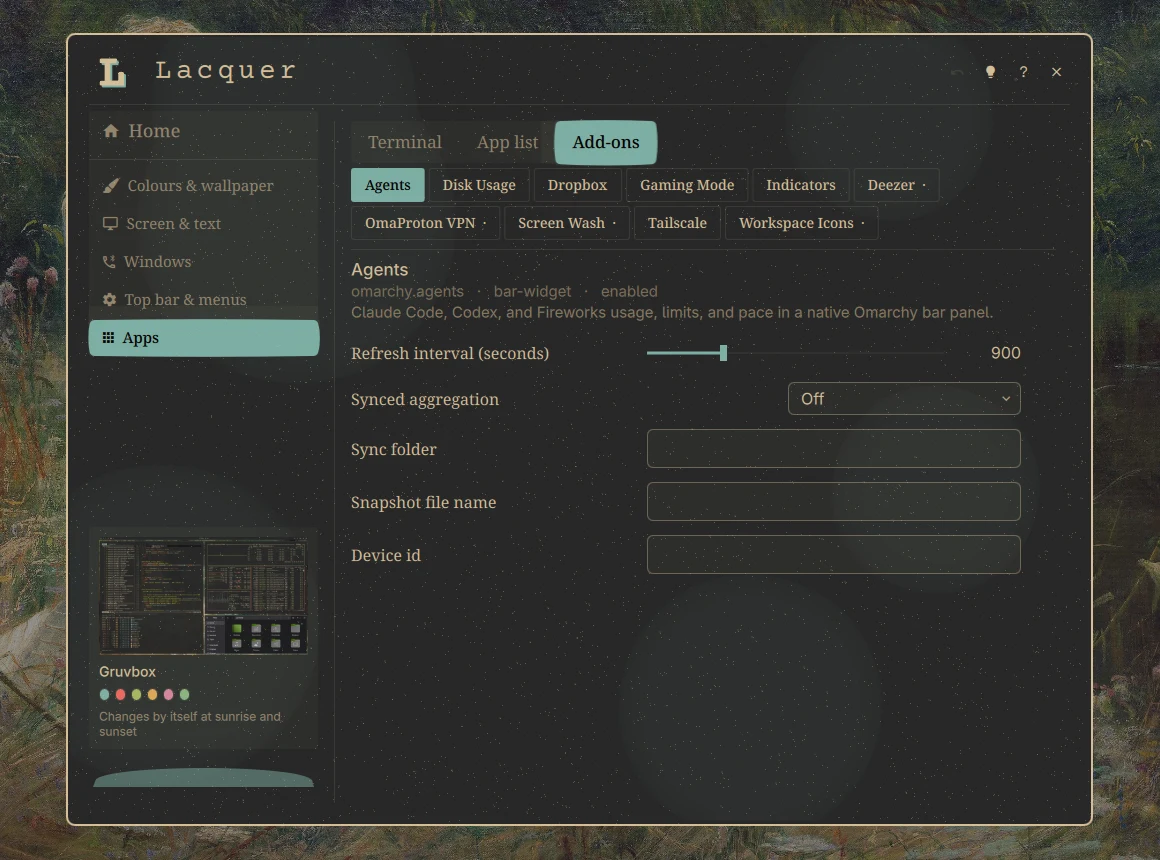
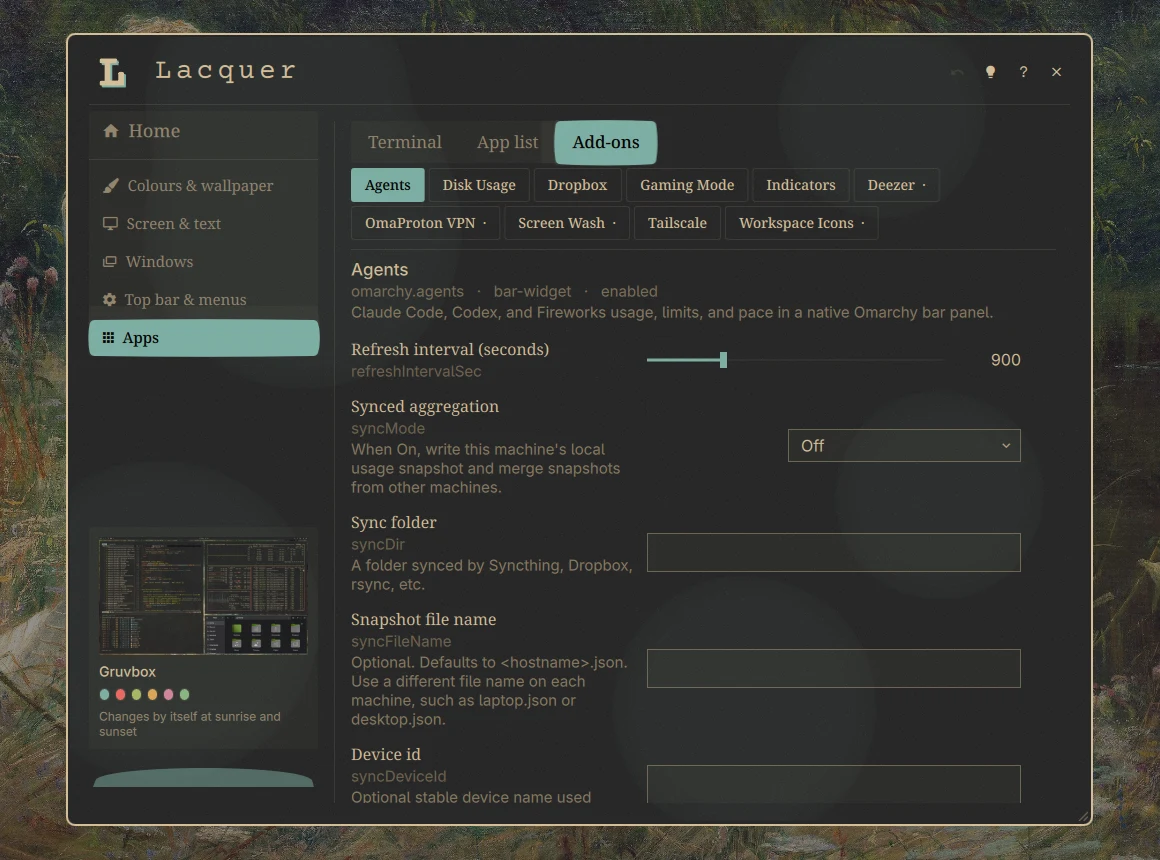
1.0.1: the front page says what changed, with new pictures
Fresh screenshots of every page, taken after the fixes, and a section
near the top that says plainly what 1.0 got wrong and what was done
about it — including the one thing that cannot be fixed from inside the
app, since Hyprland eats Super+W before any client sees it.

Claude-Session: https://claude.ai/code/session_012kioSKKt4kPGx5XamR47ye

diff --git a/README.md b/README.md
@@ -9,7 +9,7 @@
 </p>
 
 <p align="center">
-  <img alt="version 1.0" src="https://img.shields.io/badge/version-1.0-7daea3?style=flat-square&labelColor=282828">
+  <img alt="version 1.0.1" src="https://img.shields.io/badge/version-1.0.1-7daea3?style=flat-square&labelColor=282828">
   <img alt="MIT" src="https://img.shields.io/badge/licence-MIT-d4be98?style=flat-square&labelColor=282828">
   <img alt="Omarchy 4" src="https://img.shields.io/badge/Omarchy-4.0%2B-d4be98?style=flat-square&labelColor=282828">
   <img alt="no telemetry" src="https://img.shields.io/badge/no%20telemetry-665c54?style=flat-square&labelColor=282828">
@@ -88,6 +88,34 @@ online.
 <td><img src="docs/media/apprules.webp" alt="Per-app window rules: how one app opens"><br><sub><b>Per-app rules</b> — how one app opens</sub></td>
 </tr>
 </table>
+
+## 1.0.1, from what people said
+
+The 1.0 release hid each setting's description until you rested the pointer on
+it. That opened the row and pushed everything below it down, so scrolling with a
+mouse re-flowed the page under your own cursor. Three people reported it, one
+rolled back. **Descriptions are simply there again**, as they were in the beta:
+nothing opens, nothing moves.
+
+Along with it:
+
+- The **wheel no longer changes values** when you scroll past a slider. Plain
+  wheel scrolls the page; Ctrl+wheel still steps, on purpose.
+- The **window can be resized** by the grip in its bottom-right corner, and the
+  size is remembered. A layer-shell surface cannot be dragged by the
+  compositor, which is why it could not be resized before.
+- The **tab marker is an underline** again, rather than a brush stroke that
+  read, accurately, as half-drawn.
+- The **Windows tab is no longer a telephone**. `U+F118F` is
+  `md-phone_bluetooth_outline` in the installed Nerd Font.
+- The **paper grain is lighter and even**, and the key hints say
+  "key – what it does" rather than running the two together.
+- Per-app rules can **pin an app to a screen**, for a game on the big monitor
+  and everything else wherever you are.
+
+One thing that cannot be fixed from inside the app: `Super`+`W` will not close
+Lacquer. Hyprland binds it globally, so the compositor consumes the key before
+any client sees it. `Esc` closes, as does the ✕.
 
 > **What 1.0 means here.** Every setting has been round-tripped: set it, unset
 > it, and the config file is byte-for-byte what it was. Lacquer has been built
